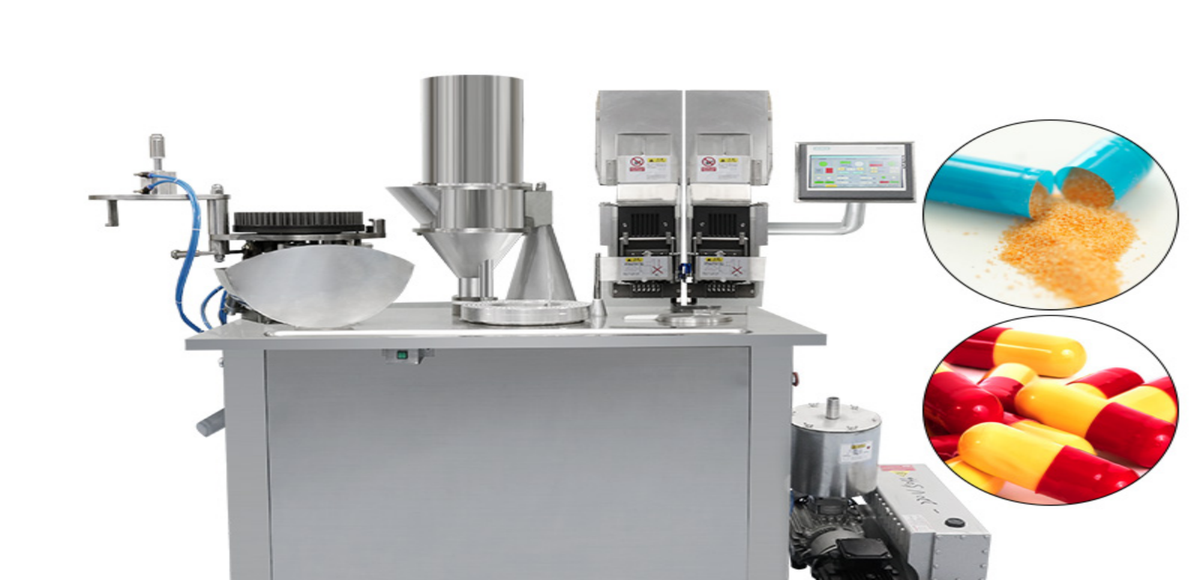
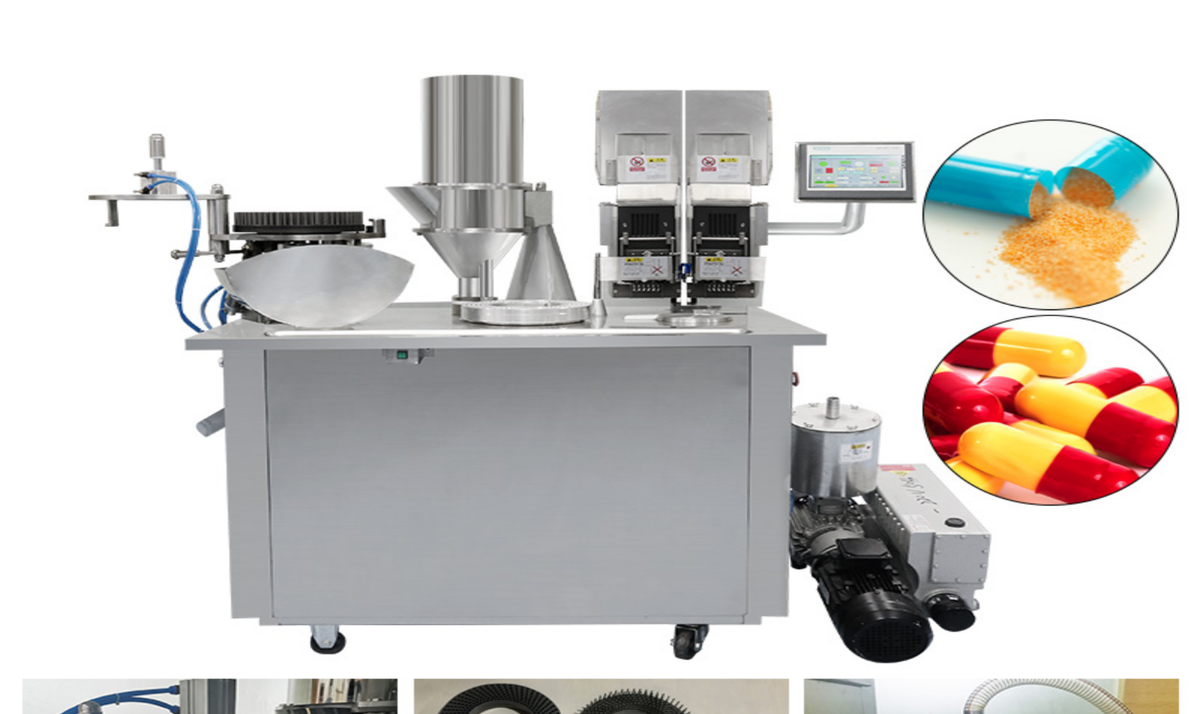
re-crop CGNT-209 image (keep feet), adjust visual aspect-ratio 4/5 to 3/2

diff --git a/index.html b/index.html
@@ -704,7 +704,7 @@
 
     .capsule-featured-visual {
       position: relative;
-      aspect-ratio: 4/5;
+      aspect-ratio: 3/2;
       background: white;
       border-radius: 16px;
       overflow: hidden;
